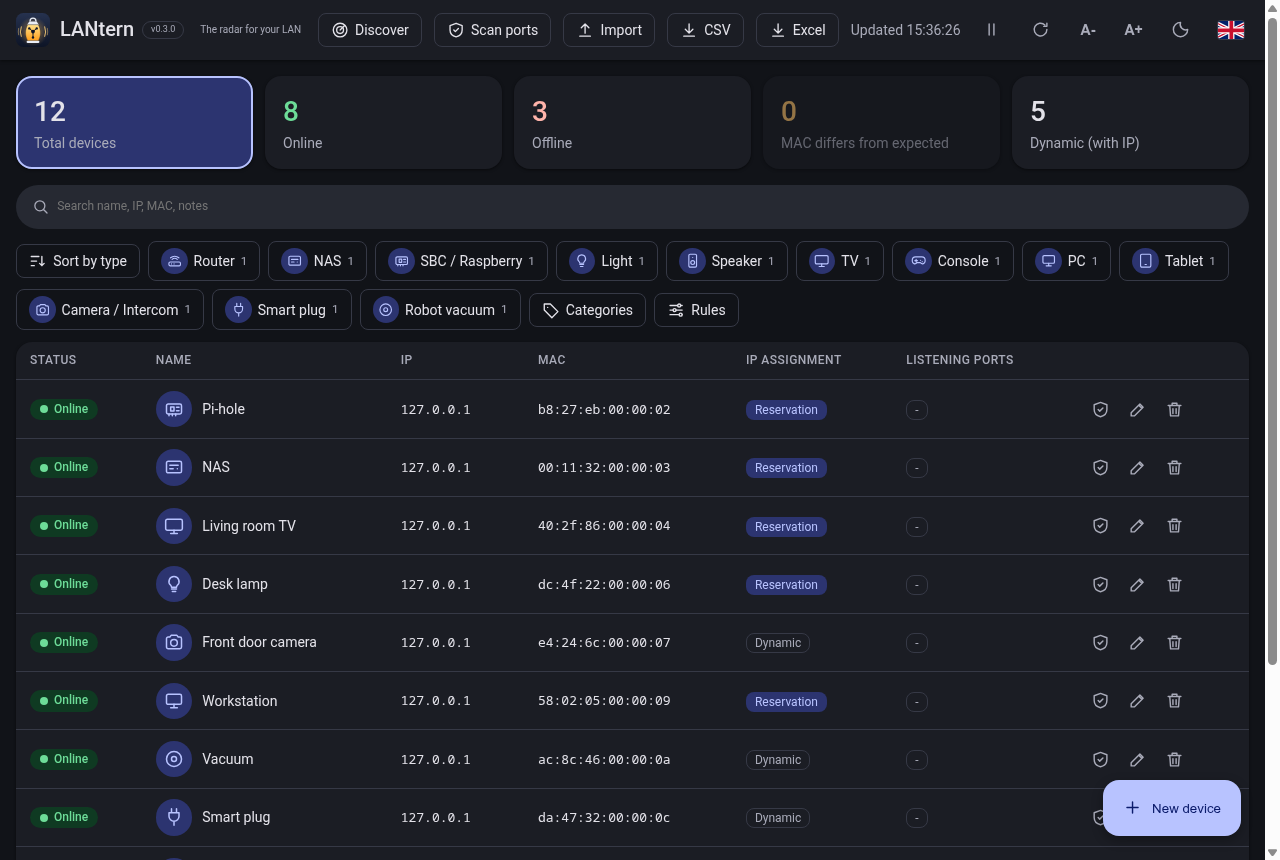
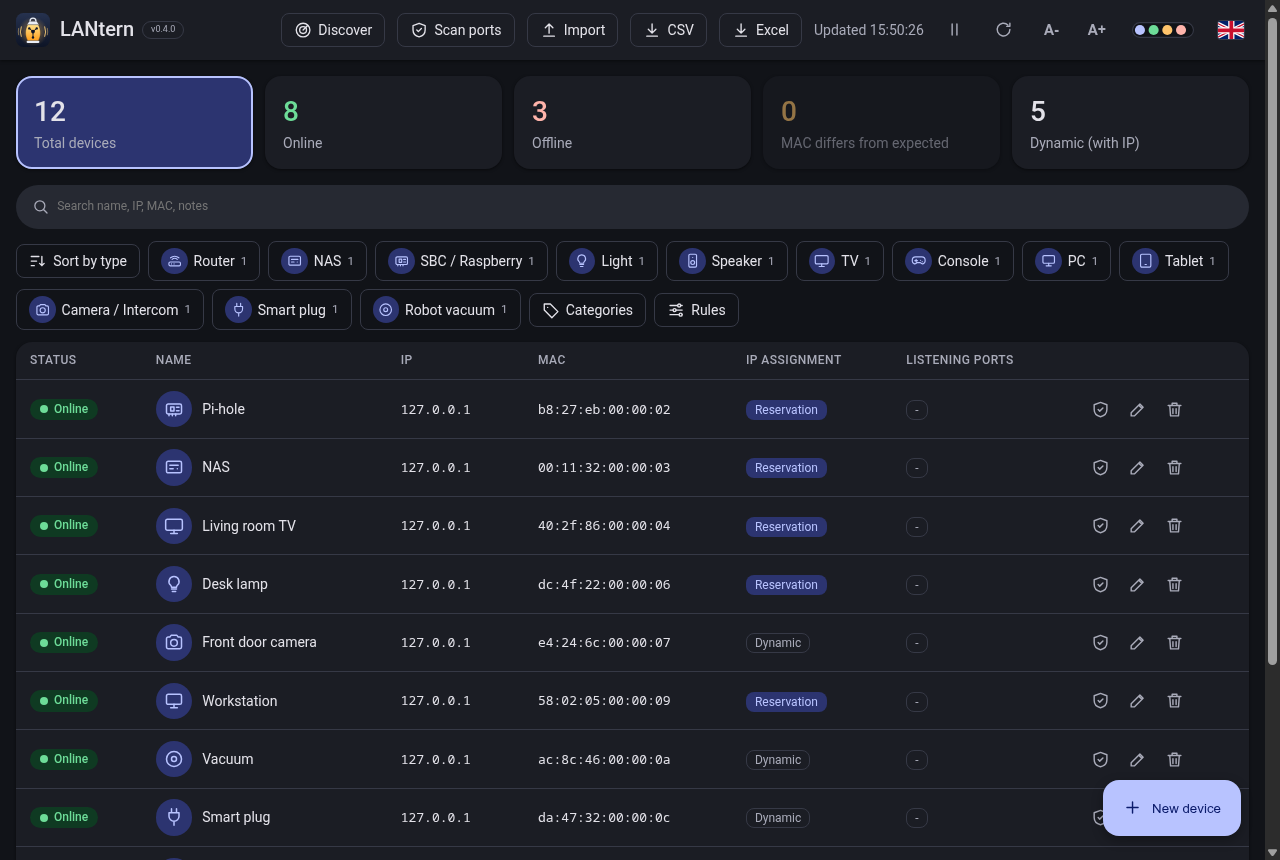
Theme menu: Classic Light/Dark plus 28 palettes (0.5.0)
Palettes and swatches from NaviradioManagerPlus (Noctalia colors, MIT).
One dropdown replaces the dark/light toggle; default follows the OS.

Claude-Session: https://claude.ai/code/session_01CLfKjuXsc1N1Lk75nyagMj

Changed region(s): [[0.9688, 0.0, 1.0, 1.0], [0.1562, 0.0302, 0.75, 0.0605], [0.8438, 0.0302, 0.9375, 0.0605]]

diff --git a/index.html b/index.html
@@ -88,11 +88,12 @@ label input:focus,label select:focus,label textarea:focus{outline:2px solid var(
 .lang{position:relative}
 .menu{position:absolute;right:0;top:100%;background:var(--surface);border-radius:12px;box-shadow:0 4px 16px rgba(0,0,0,.3);padding:6px;z-index:10;min-width:10em}
 .menu[hidden]{display:none}
+.menu.themes{min-width:19em;max-height:min(70vh,32em);overflow-y:auto}.menu.themes button{justify-content:space-between;white-space:nowrap}svg.sw{width:86px;height:22px;flex:none}#theme{width:auto;padding:0 6px}#theme svg.sw{width:62px;height:16px}
 .menu button{display:flex;align-items:center;gap:10px;width:100%;border:0;background:none;color:var(--on);padding:8px 10px;border-radius:8px;font:inherit;cursor:pointer}
 .menu button:hover,.menu button[aria-pressed=true]{background:var(--surface2)}
 .flag{width:2em;height:1.4em;border-radius:3px;box-shadow:0 0 0 1px var(--line);display:block}
 header h1 small{font-size:.5em;font-weight:400;color:var(--on2);margin-left:6px}
-@media (max-width:760px){header h1 small{display:none}}
+@media (max-width:1400px){header h1 small{display:none}}
 .sug{display:flex;flex-wrap:wrap;align-items:center;gap:8px;background:var(--pc);border-radius:12px;padding:8px 12px;margin-bottom:12px}
 .sug[hidden]{display:none}
 .rrow,.radd{display:grid;grid-template-columns:1.2fr 1.4fr 1.2fr auto;gap:6px;margin-bottom:6px;align-items:center}
@@ -120,7 +121,7 @@ header h1 .ver{font-size:.45em;font-weight:400;color:var(--on2);border:1px solid
   <button class="icon-btn" id="refresh" data-it="refresh"><svg class="i" viewBox="0 0 24 24"><use href="#i-refresh"/></svg></button>
   <button class="icon-btn fs" id="fsm" data-it="fs.m">A-</button>
   <button class="icon-btn fs" id="fsp" data-it="fs.p">A+</button>
-  <button class="icon-btn" id="theme" data-it="theme"><svg class="i" viewBox="0 0 24 24"><use href="#i-theme"/></svg></button>
+  <div class="lang"><button class="icon-btn" id="theme" data-it="theme"></button><div class="menu themes" id="tmenu" hidden></div></div>
   <div class="lang"><button class="icon-btn" id="langbtn" data-it="lang"></button><div class="menu" id="lmenu" hidden></div></div>
 </header>
 <main>
@@ -210,7 +211,7 @@ it:'<svg class="flag" viewBox="0 0 3 2" preserveAspectRatio="none"><rect width="
 en:'<svg class="flag" viewBox="0 0 60 30" preserveAspectRatio="xMidYMid slice"><rect width="60" height="30" fill="#012169"/><path d="M0 0L60 30M60 0L0 30" stroke="#fff" stroke-width="6"/><path d="M0 0L60 30M60 0L0 30" stroke="#c8102e" stroke-width="2"/><path d="M30 0v30M0 15h60" stroke="#fff" stroke-width="10"/><path d="M30 0v30M0 15h60" stroke="#c8102e" stroke-width="6"/></svg>'};
 const LANGS={it:'Italiano',en:'English'};
 const L={
-it:{'auto.pause':'Metti in pausa l\'aggiornamento automatico','auto.resume':'Riprendi l\'aggiornamento automatico','oui.urls':'URL del registro OUI, uno per riga (CSV IEEE o oui.txt). Vuoto = predefiniti','imp':'Importa','imp.t':'Importa device da CSV o nmap XML','imp.res':'Letti {r}, nuovi {a}, senza MAC {s}','disc':'Scopri','disc.t':'Cerca i device nella LAN e aggiungi quelli nuovi','disc.res':'Trovati {f} device, {a} nuovi','app.tag':'Il radar della tua LAN','scan.all':'Scansiona porte','scan.all.t':'Scansiona le porte di tutti i device online','scan.one':'Scansiona porte',
+it:{'theme.cl':'Classico chiaro','theme.cd':'Classico scuro','auto.pause':'Metti in pausa l\'aggiornamento automatico','auto.resume':'Riprendi l\'aggiornamento automatico','oui.urls':'URL del registro OUI, uno per riga (CSV IEEE o oui.txt). Vuoto = predefiniti','imp':'Importa','imp.t':'Importa device da CSV o nmap XML','imp.res':'Letti {r}, nuovi {a}, senza MAC {s}','disc':'Scopri','disc.t':'Cerca i device nella LAN e aggiungi quelli nuovi','disc.res':'Trovati {f} device, {a} nuovi','app.tag':'Il radar della tua LAN','scan.all':'Scansiona porte','scan.all.t':'Scansiona le porte di tutti i device online','scan.one':'Scansiona porte',
 'scan.confirm':'Scansionare le porte di {n} device online?','exp.csv':'Esporta CSV','exp.xlsx':'Esporta Excel','updated':'Aggiornato {t}','refresh':'Aggiorna',
 'fs.m':'Riduci testo','fs.p':'Ingrandisci testo','theme':'Tema','lang':'Lingua','search':'Cerca nome, IP, MAC, note',
 'sort.type':'Ordina per tipo','sort.type.t':'Ordina per tipo (icona)','cats.btn':'Categorie','cats.btn.t':'Gestisci categorie','rules.btn':'Regole','rules.btn.t':'Regole di riconoscimento',
@@ -228,7 +229,7 @@ it:{'auto.pause':'Metti in pausa l\'aggiornamento automatico','auto.resume':'Rip
 'rf.mac':'MAC inizia con','rf.name':'Nome contiene','rf.ports':'Porta aperta','rf.vendor':'Produttore contiene','rules.pattern':'testo','rules.add':'Aggiungi',
 'oui.info':'{n} prefissi - fonte: {s} - aggiornato il {d}','oui.empty':'Database OUI vuoto','oui.update':'Aggiorna da IEEE','oui.busy':'Download in corso...',
 'sug.prefix':'Suggerito:','sug.vendor':'produttore {v}','sug.cat':'categoria {c} (regola {r})','sug.apply':'Applica','sug.local':'MAC locale o privato: il produttore non si può ricavare dal MAC'},
-en:{'auto.pause':'Pause auto-refresh','auto.resume':'Resume auto-refresh','oui.urls':'OUI registry URLs, one per line (IEEE CSV or oui.txt). Empty = defaults','imp':'Import','imp.t':'Import devices from CSV or nmap XML','imp.res':'Read {r}, new {a}, without MAC {s}','disc':'Discover','disc.t':'Find devices on the LAN and add the new ones','disc.res':'Found {f} devices, {a} new','app.tag':'The radar for your LAN','scan.all':'Scan ports','scan.all.t':'Scan ports of all online devices','scan.one':'Scan ports',
+en:{'theme.cl':'Classic Light','theme.cd':'Classic Dark','auto.pause':'Pause auto-refresh','auto.resume':'Resume auto-refresh','oui.urls':'OUI registry URLs, one per line (IEEE CSV or oui.txt). Empty = defaults','imp':'Import','imp.t':'Import devices from CSV or nmap XML','imp.res':'Read {r}, new {a}, without MAC {s}','disc':'Discover','disc.t':'Find devices on the LAN and add the new ones','disc.res':'Found {f} devices, {a} new','app.tag':'The radar for your LAN','scan.all':'Scan ports','scan.all.t':'Scan ports of all online devices','scan.one':'Scan ports',
 'scan.confirm':'Scan ports of {n} online devices?','exp.csv':'Export CSV','exp.xlsx':'Export Excel','updated':'Updated {t}','refresh':'Refresh',
 'fs.m':'Smaller text','fs.p':'Larger text','theme':'Theme','lang':'Language','search':'Search name, IP, MAC, notes',
 'sort.type':'Sort by type','sort.type.t':'Sort by type (icon)','cats.btn':'Categories','cats.btn.t':'Manage categories','rules.btn':'Rules','rules.btn.t':'Recognition rules',
@@ -264,10 +265,30 @@ const fillTypes=()=>{$('#type').innerHTML=cats.map(c=>`<option value="${esc(c.ke
 
 // tema e font
 const root=document.documentElement;
-try{const th=localStorage.getItem('theme');if(th)root.dataset.theme=th}catch{}
-$('#theme').onclick=()=>{
-  const dark=root.dataset.theme?root.dataset.theme==='dark':matchMedia('(prefers-color-scheme:dark)').matches;
-  root.dataset.theme=dark?'light':'dark';try{localStorage.setItem('theme',root.dataset.theme)}catch{}};
+const PAL=[["ayu","Ayu",["#e6b450","#aad94c","#39bae6","#d95757"],[["#0b0e14","#1e222a","#151920","#565b66","#d1d1c7","#8e959e","#e6b450","#0b0e14"],["#f8f9fa","#e4e6e9","#edeff1","#8a9199","#42474c","#6e757c","#ff8f40","#f8f9fa"]]],["catppuccin","Catppuccin",["#cba6f7","#fab387","#94e2d5","#f38ba8"],[["#1e1e2e","#313244","#28293a","#4c4f69","#cdd6f4","#a3b4eb","#cba6f7","#11111b"],["#eff1f5","#ccd0da","#dcdfe6","#a5adcb","#4c4f69","#6c6f85","#8839ef","#eff1f5"]]],["dracula","Dracula",["#bd93f9","#ff79c6","#8be9fd","#ff5555"],[["#282a36","#44475a","#373a4a","#5a5e77","#f8f8f2","#d6d8e0","#bd93f9","#282a36"],["#f8f8f2","#e6e6ea","#eeeeee","#cacad3","#282a36","#44475a","#8332f4","#ffffff"]]],["eldritch","Eldritch",["#37f499","#04d1f9","#a48cf2","#f16c75"],[["#212337","#292e42","#25293d","#3b4261","#ebfafa","#abb4da","#37f499","#171928"],["#f0f3f4","#d5d9db","#e1e5e6","#c9cbcd","#1e2029","#1e2029","#fb5bb6","#1e2029"]]],["everforest","Everforest",["#a7c080","#83c092","#dbbc7f","#e67e80"],[["#2d353b","#343f44","#232a2e","#475258","#d3c6aa","#9da9a0","#a7c080","#2d353b"],0]],["github","GitHub Dark",["#58a6ff","#3fb950","#ab7df8","#f85149"],[["#0d1117","#151b23","#010409","#3d444d","#f0f6fc","#9198a1","#58a6ff","#0d1117"],0]],["gruvbox","Gruvbox",["#b8bb26","#fabd2f","#83a598","#fb4934"],[["#282828","#3c3836","#333130","#57514e","#fbf1c7","#ebdbb2","#b8bb26","#282828"],["#fbf1c7","#ebdbb2","#f2e5bb","#bdae93","#3c3836","#7c6f64","#98971a","#fbf1c7"]]],["kanagawa","Kanagawa",["#76946a","#c0a36e","#7e9cd8","#c34043"],[["#1f1f28","#2a2a37","#252530","#363646","#c8c093","#717c7c","#76946a","#1f1f28"],["#f2ecbc","#e5ddb0","#ebe4b5","#cfc49c","#545464","#8a8980","#6f894e","#f2ecbc"]]],["material","Material Dark",["#80cbc4","#c3e88d","#82aaff","#f07178"],[["#212121","#2a2a2a","#1a1a1a","#343434","#eeffff","#8f93a2","#80cbc4","#212121"],0]],["monokai","Monokai",["#f92672","#a6e22e","#66d9ef","#e6db74"],[["#272822","#31322b","#1e1f1c","#49483e","#f8f8f2","#8f908a","#f92672","#272822"],0]],["monokai-pro","Monokai Pro",["#ff6188","#a9dc76","#78dce8","#ffd866"],[["#2d2a2e","#363337","#221f22","#5b595c","#fcfcfa","#939293","#ff6188","#2d2a2e"],0]],["nord","Nord",["#8fbcbb","#88c0d0","#5e81ac","#bf616a"],[["#2e3440","#3b4252","#353c4a","#505a70","#eceff4","#d8dee9","#8fbcbb","#2e3440"],["#eceff4","#e5e9f0","#e8ecf2","#c5cedd","#2e3440","#4c566a","#5e81ac","#eceff4"]]],["onedark","One Dark",["#61afef","#98c379","#c678dd","#e06c75"],[["#282c34","#2c323c","#21252b","#3e4452","#abb2bf","#7f848e","#61afef","#282c34"],0]],["palenight","Palenight",["#c792ea","#c3e88d","#82b1ff","#ff5370"],[["#292d3e","#32364a","#232635","#444267","#a6accd","#7f85a8","#c792ea","#292d3e"],0]],["rosepine","Ros\u00e9 Pine",["#ebbcba","#9ccfd8","#31748f","#eb6f92"],[["#191724","#26233a","#201e30","#403d52","#e0def4","#908caa","#ebbcba","#191724"],["#fffaf3","#f2e9e1","#f8f1e9","#dfdad9","#575279","#797593","#d7827e","#faf4ed"]]],["rosepine-moon","Ros\u00e9 Pine Moon",["#c4a7e7","#9ccfd8","#ea9a97","#eb6f92"],[["#232136","#2a273f","#393552","#44415a","#e0def4","#908caa","#c4a7e7","#232136"],0]],["solarized","Solarized Dark",["#268bd2","#859900","#b58900","#dc322f"],[["#002b36","#073642","#00212b","#1c4a57","#93a1a1","#839496","#268bd2","#002b36"],0]],["tokyonight","Tokyo-Night",["#7aa2f7","#bb9af7","#9ece6a","#f7768e"],[["#1a1b26","#24283b","#202232","#353d57","#c0caf5","#9aa5ce","#7aa2f7","#16161e"],["#e1e2e7","#d0d5e3","#d8dbe5","#b4b5b9","#3760bf","#6172b0","#2e7de9","#e1e2e7"]]]];  // [key, name, 4 dots, [dark, light], each: bg card input border text muted accent onaccent]; colors: Noctalia palettes (MIT) via NaviradioManagerPlus
+const CL={id:'classic:light',k:'theme.cl',mode:'light',dots:['#3f51b5','#1b8a4b','#9a5b00','#ba1a1a'],bg:'#f7f8fc',line:'#d9dbe6'},
+  CD={id:'classic:dark',k:'theme.cd',mode:'dark',dots:['#b8c3ff','#6ddc98','#ffc46b','#ffb4ab'],bg:'#111318',line:'#363946'};
+const THEMES=[CL,CD];
+for(const [key,name,dots,vs] of PAL)vs.forEach((v,i)=>{if(!v)return;const mode=i?'light':'dark',[bg,card,input,border,text,muted,accent,onacc]=v;
+  THEMES.push({id:key+':'+mode,n:vs[0]&&vs[1]?name+(i?' Light':' Dark'):name,mode,dots,bg,line:border,
+    vars:{'--bg':bg,'--surface':card,'--surface2':input,'--on':text,'--on2':muted,'--line':`color-mix(in srgb,${border} 55%,${bg})`,'--primary':accent,'--on-primary':onacc,'--pc':`color-mix(in srgb,${accent} 26%,${card})`}})});
+const swatch=th=>`<svg class="sw" viewBox="0 0 86 22"><rect x=".75" y=".75" width="84.5" height="20.5" rx="10.25" fill="${th.bg}" stroke="${th.line}" stroke-width="1.5"/>${th.dots.map((c,i)=>`<circle cx="${11+i*19}" cy="11" r="7" fill="${c}"/>`).join('')}</svg>`;
+let theme=null;try{theme=localStorage.getItem('theme')}catch{}
+if(theme==='light'||theme==='dark')theme='classic:'+theme;  // choice saved by older versions
+const osMode=()=>matchMedia('(prefers-color-scheme:dark)').matches?'dark':'light';
+const curTheme=()=>THEMES.find(x=>x.id===theme)||THEMES.find(x=>x.id==='classic:'+osMode());
+const thLabel=th=>th.k?t(th.k):th.n;
+const THEME_VARS=['--bg','--surface','--surface2','--on','--on2','--line','--primary','--on-primary','--pc'];
+function applyTheme(){
+  const th=curTheme();root.dataset.theme=th.mode;root.style.colorScheme=th.mode;
+  THEME_VARS.forEach(v=>root.style.removeProperty(v));
+  for(const v in th.vars||{})root.style.setProperty(v,th.vars[v]);
+  $('#theme').innerHTML=swatch(th);
+  $('#tmenu').innerHTML=THEMES.map(x=>`<button data-th="${x.id}" aria-pressed="${x===th}"><span>${esc(thLabel(x))}</span>${swatch(x)}</button>`).join('')}
+$('#theme').onclick=e=>{e.stopPropagation();$('#lmenu').hidden=true;$('#tmenu').hidden=!$('#tmenu').hidden;{const m=$('#tmenu'),c=m.querySelector('[aria-pressed=true]');if(c)m.scrollTop=c.offsetTop-m.clientHeight/2}};
+$('#tmenu').onclick=e=>{const b=e.target.closest('[data-th]');if(!b)return;theme=b.dataset.th;try{localStorage.setItem('theme',theme)}catch{}applyTheme();$('#tmenu').hidden=true};
+matchMedia('(prefers-color-scheme:dark)').addEventListener('change',()=>{if(!THEMES.some(x=>x.id===theme))applyTheme()});
+applyTheme();
 let fs=14;try{fs=+localStorage.getItem('fs')||14}catch{}
 const setFs=n=>{fs=Math.min(20,Math.max(11,n));root.style.setProperty('--fs',fs+'px');try{localStorage.setItem('fs',fs)}catch{}};
 setFs(fs);$('#fsm').onclick=()=>setFs(fs-1);$('#fsp').onclick=()=>setFs(fs+1);
@@ -418,16 +439,16 @@ function applyLang(){
   document.querySelectorAll('[data-it]').forEach(e=>e.title=t(e.dataset.it));
   document.querySelectorAll('[data-ip]').forEach(e=>e.placeholder=t(e.dataset.ip));
   $('#head').innerHTML=COLS.map(([k,l])=>`<th data-k="${k}">${l?t(l):''}</th>`).join('');
-  $('#langbtn').innerHTML=FLAGS[lang];
+  $('#langbtn').innerHTML=FLAGS[lang];applyTheme();
   $('#lmenu').innerHTML=Object.keys(LANGS).map(k=>`<button data-l="${k}" aria-pressed="${k===lang}">${FLAGS[k]}${LANGS[k]}</button>`).join('');
   $('#xcsv').href='/api/export.csv?lang='+lang;$('#xxlsx').href='/api/export.xlsx?lang='+lang;
   if($('#dlg').open){const v=f.type.value;fillTypes();f.type.value=v;$('#dt').textContent=t(editId?'dlg.edit':'dlg.new');suggest()}
   if($('#rdlg').open)loadRules();
   render()}
-$('#langbtn').onclick=e=>{e.stopPropagation();$('#lmenu').hidden=!$('#lmenu').hidden};
+$('#langbtn').onclick=e=>{e.stopPropagation();$('#tmenu').hidden=true;$('#lmenu').hidden=!$('#lmenu').hidden};
 $('#lmenu').onclick=e=>{const b=e.target.closest('[data-l]');if(!b)return;lang=b.dataset.l;try{localStorage.setItem('lang',lang)}catch{}
   $('#lmenu').hidden=true;applyLang()};
-document.addEventListener('click',()=>{$('#lmenu').hidden=true});
+document.addEventListener('click',()=>{$('#lmenu').hidden=true;$('#tmenu').hidden=true});
 applyLang();load().then(()=>{if({{AUTO}}&&!devices.length)discover(true)});let auto=true;try{auto=localStorage.getItem('auto')!=='0'}catch{}
 const setAuto=v=>{auto=v;try{localStorage.setItem('auto',v?'1':'0')}catch{}
   $('#pause').dataset.it=v?'auto.pause':'auto.resume';$('#pause').setAttribute('aria-pressed',!v);

diff --git a/app.py b/app.py
@@ -7,7 +7,7 @@ from concurrent.futures import ThreadPoolExecutor
 from http.server import BaseHTTPRequestHandler, ThreadingHTTPServer
 from pathlib import Path
 
-VERSION = "0.4.0"
+VERSION = "0.5.0"
 DIR = Path(__file__).parent
 DB = Path(os.environ.get("LANTERN_DB", DIR / "devices.db"))  # --db overrides
 WIN = os.name == "nt"

diff --git a/README.md b/README.md
@@ -4,8 +4,9 @@
 Python standard library only. No login, no cloud, one SQLite file.</p>
 
 <p align="center">
-  <img src="docs/screenshot-light.png" width="48%" alt="Light theme">
-  <img src="docs/screenshot-dark.png" width="48%" alt="Dark theme">
+  <img src="docs/screenshot-light.png" width="32%" alt="Classic Light">
+  <img src="docs/screenshot-dark.png" width="32%" alt="Classic Dark">
+  <img src="docs/screenshot-themes.png" width="32%" alt="Theme menu">
 </p>
 
 ## What it does
@@ -18,7 +19,7 @@ Python standard library only. No login, no cloud, one SQLite file.</p>
 - Editable categories (name, icon, icon color) and filters, sort by type.
 - Recognition: vendor from the MAC prefix (IEEE OUI database, updatable in one click, registry URLs editable), category from editable rules. LANtern suggests, you confirm.
 - CSV and Excel export. Import from a CSV (LANtern's own export works as a backup) or an nmap XML (`nmap -sn -oX`). Known MACs are never overwritten.
-- Light and dark theme, font size, Italian and English (flag in the top bar).
+- 30 themes in one menu: Classic Light and Classic Dark first (the default follows your OS), then Ayu, Catppuccin, Dracula, Nord, Tokyo Night, Kanagawa and more, each with a light variant when it has one. Font size, Italian and English (flag in the top bar).
 
 ## Run
 
@@ -51,6 +52,10 @@ The database starts empty and fills itself with a discovery on first start. `see
 ## Security
 
 LANtern listens on `127.0.0.1` only and has no authentication. Do not expose it to the internet.
+
+## Credits
+
+Theme colors come from the built-in palettes of [Noctalia](https://github.com/noctalia-dev/noctalia) (MIT), as collected in [NaviradioManagerPlus](https://github.com/nightwatch75/NaviradioManagerPlus).
 
 ## License
 
